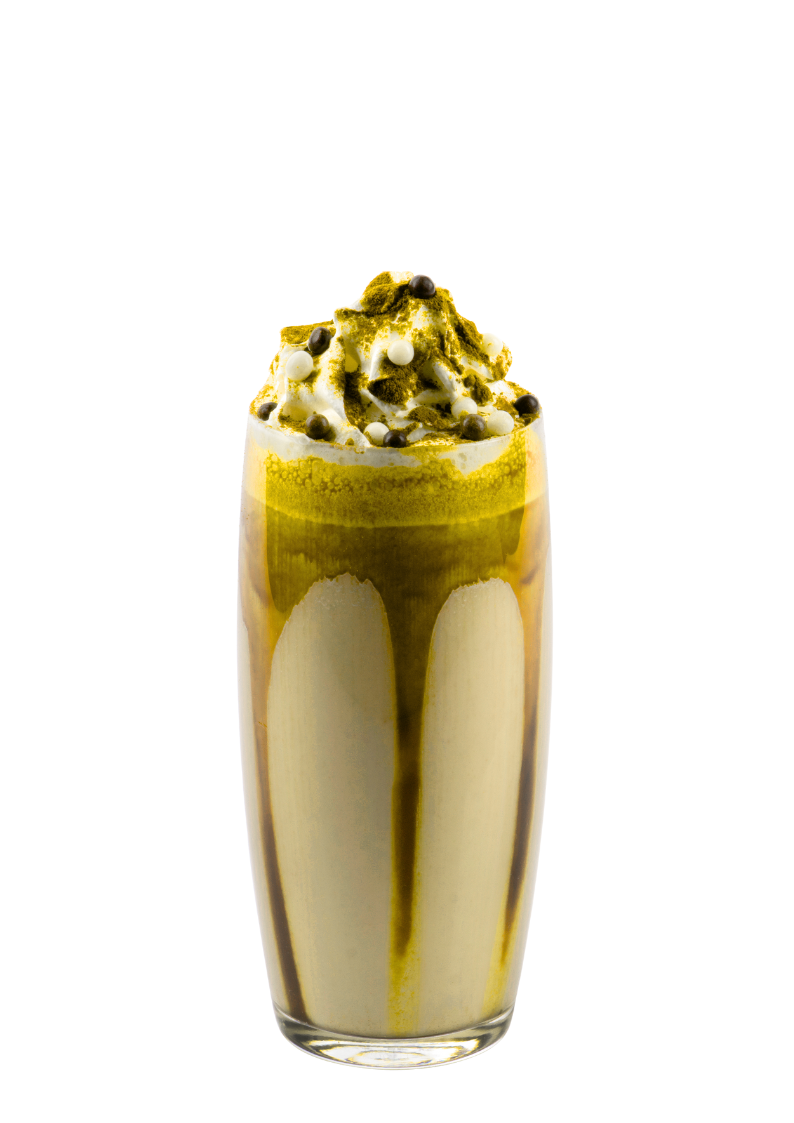
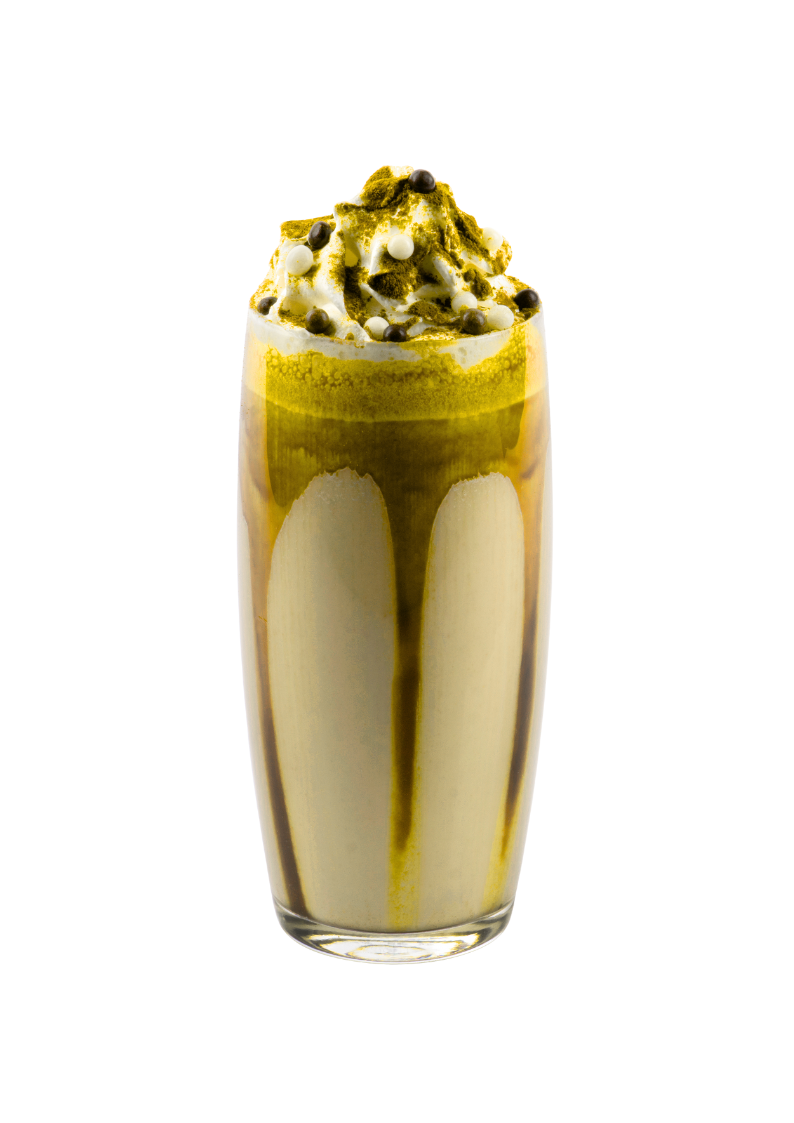
update

Changed region(s): [[0.272, 0.1247, 0.6952, 0.9662]]

diff --git a/src/pages/About.jsx b/src/pages/About.jsx
@@ -12,7 +12,11 @@ import Footer from '../components/Footer';
 import ice from '../assets/home/16.png'
 import milkshake from '../assets/Icecreams/milkshake.png'
 import chicken from '../assets/Icecreams/chicken.png'
-import burger from '../assets/Icecreams/burger.png'
+import burger from '../assets/home/108.png'
+import one from '../assets/special/3.jpg'
+import two from '../assets/special/5.jpg'
+import three from '../assets/special/6.jpg'
+import four from '../assets/special/6.png'
 
 const About = () => {
   const values = [
@@ -90,10 +94,10 @@ const About = () => {
         <div className="max-w-7xl mx-auto px-6 py-16 md:flex items-center gap-10">
           {/* Left Text */}
           <div className="md:w-1/2">
-            <h2 className="text-2xl md:text-5xl font-extrabold tracking-wider mb-4 text-black uppercase">
+            <h2 className="text-2xl md:text-5xl font-extrabold tracking-wider mb-4 text-center text-yellow-500 uppercase">
               Our Story
             </h2>
-            <p className="text-black/80 mb-6 text-xl ">
+            <p className="text-black/70 mb-6 text-xl ">
               Merry Berry Icecream is your destination for delicious indulgence, offering a wide range of ice creams, sundaes, shakes, fried chicken, burger and mouthwatering add-on snacks like veg burgers and sandwiches. Since opening our doors in April 2023, we have quickly grown and currently operate 3 outlets in Salem, with 4 more outlets in progress across South India-including Bangalore, Chennai, and Erode-as part of our expanding franchise model. With a focus on quality, innovation, and customer satisfaction, we take pride in serving over 50+ varieties of ice cream sundaes, delivering a delightful experience with every scoop. Whether you're a fan of classic flavors or looking for something new and exciting, Merry Berry Icecream has something for everyone!
 
 
@@ -125,22 +129,22 @@ const About = () => {
               {
                 title: "Fresh Daily",
                 caption: "Made every morning",
-                src: "photo-1551024601-bec78aea704b"
+                src: one
               },
               {
                 title: "Perfect Crunch",
                 caption: "24-hour brined chicken",
-                src: "photo-1562967914-608f82629710"
+                src: two
               },
               {
                 title: "Artisan Flavors",
                 caption: "Unique combinations",
-                src: "photo-1497034825429-c343d7c6a68f"
+                src: three
               },
             ].map((item, i) => (
               <div key={i} className="relative overflow-hidden rounded-2xl shadow-xl">
                 <img
-                  src={`https://images.unsplash.com/${item.src}?auto=format&fit=crop&w=800&q=80`}
+                  src={item.src}
                   className="w-full h-48 object-cover transform hover:scale-110 transition-transform duration-500"
                   alt={item.title}
                 />
@@ -392,7 +396,7 @@ const About = () => {
             {/* Middle Image */}
             <div className="flex justify-center">
               <img
-                src={milkshake}
+                src={four}
                 alt="Milkshake"
                 className="max-h-[400px] object-contain"
               />

diff --git a/src/components/Whatsapp.jsx b/src/components/Whatsapp.jsx
@@ -1,0 +1,33 @@
+// WhatsAppButton.jsx
+import React from "react";
+
+export default function WhatsAppButton({
+  phone = "9715768735", // e.g. "919876543210"
+  message = "Hello! I found your site and would like to chat.", // default message
+  icon = "https://www.freeiconspng.com/thumbs/logo-whatsapp-png/logo-whatsapp-png-pic-0.png", // your whatsapp icon link
+  size = 80, // px (will map to tailwind-friendly sizes via inline style)
+}) {
+  const encoded = encodeURIComponent(message);
+  const href = `https://wa.me/${phone}?text=${encoded}`;
+
+  return (
+    <a
+      href={href}
+      target="_blank"
+      rel="noopener noreferrer"
+      aria-label="Chat on WhatsApp"
+      className="fixed right-4 bottom-4 z-200  flex items-center justify-center hover:scale-105 transition-transform duration-200"
+      style={{
+        width: size,
+        height: size,
+      }}
+    >
+      <img
+        src={icon}
+        alt="WhatsApp"
+        style={{ width: size * 0.8, height: size * 0.8 }}
+        className="object-contain"
+      />
+    </a>
+  );
+}

diff --git a/src/components/FlavorSlider.jsx b/src/components/FlavorSlider.jsx
@@ -7,8 +7,8 @@ const flavors = [
     {
       name: "MANGO CHAMOY",
       headline: "FULL MOON PARTY",
-      subtext: "It's a party for your taste buds! A pint of this will have you dancing all night long.",
-      description: "Tangy mango with lime, honey, and chamoy. A full-blown explosion of spicy, sweet, and sour.",
+      subtext: "It's a party for your taste buds!",
+      description: "Tangy mango with lime, honey, and chamoy.",
       backgroundColor: "#FFE9B6", // Light Amber
       textColor: "#8B4513",       // Warm Brown
       keyword: "If Thailand's full moon party was a flavor",

diff --git a/src/App.jsx b/src/App.jsx
@@ -15,6 +15,7 @@ import AdminCareers from '../src/pages/admin/AdminCareers.jsx'
 import AdminFranchise from '../src/pages/admin/AdminFranchise.jsx'
 import AdminProducts from '../src/pages/admin/AdminProducts.jsx'
 import AdminOffers from '../src/pages/admin/AdminOffer.jsx'
+import WhatsAppButton from './components/Whatsapp.jsx';
 
 
 // Scroll to top on route change
@@ -84,6 +85,7 @@ const App = () => {
         
         
       )}
+      <WhatsAppButton/>
     </BrowserRouter>
   );
 };
